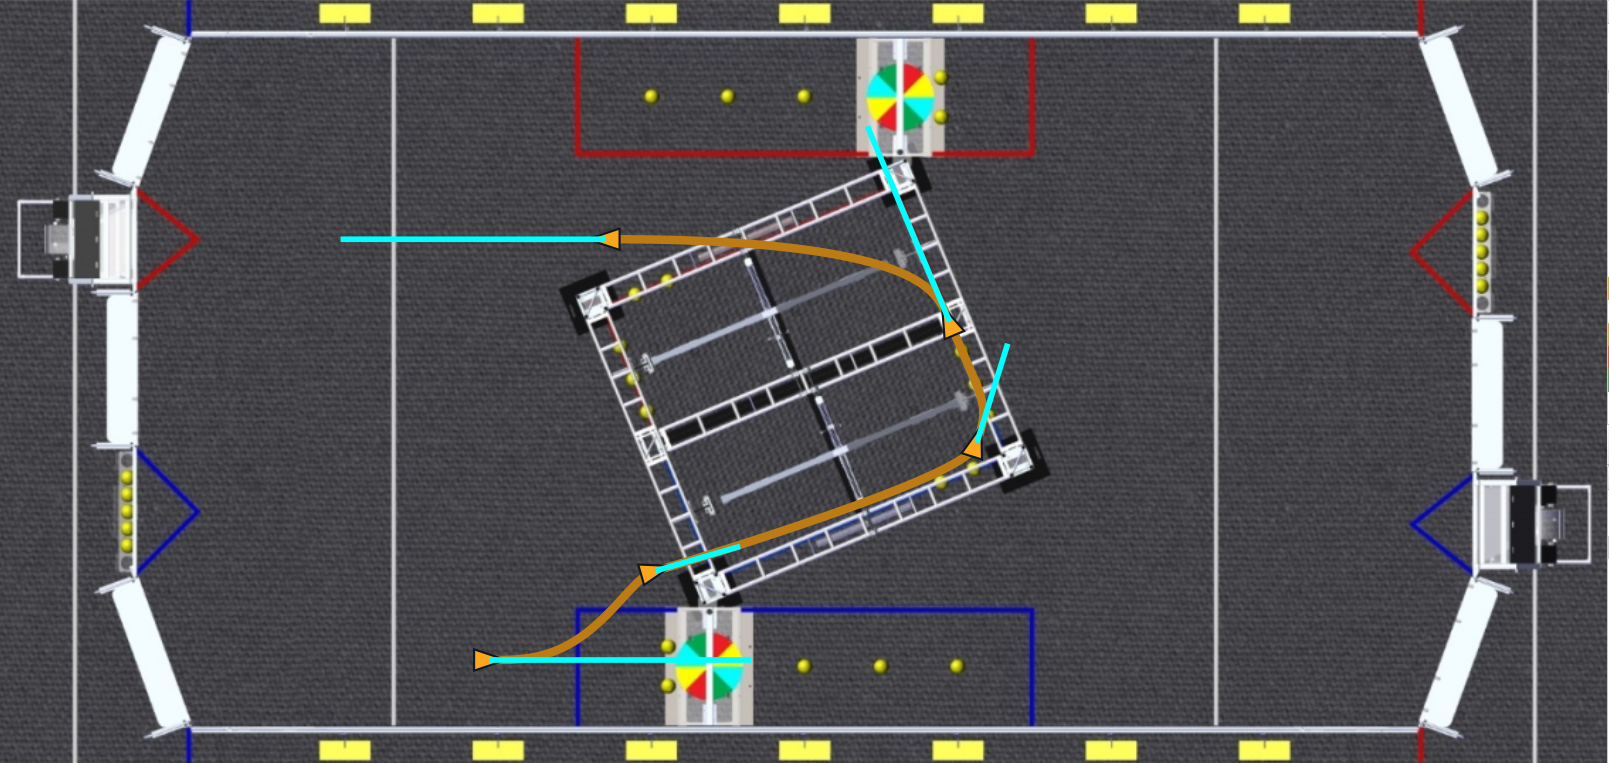
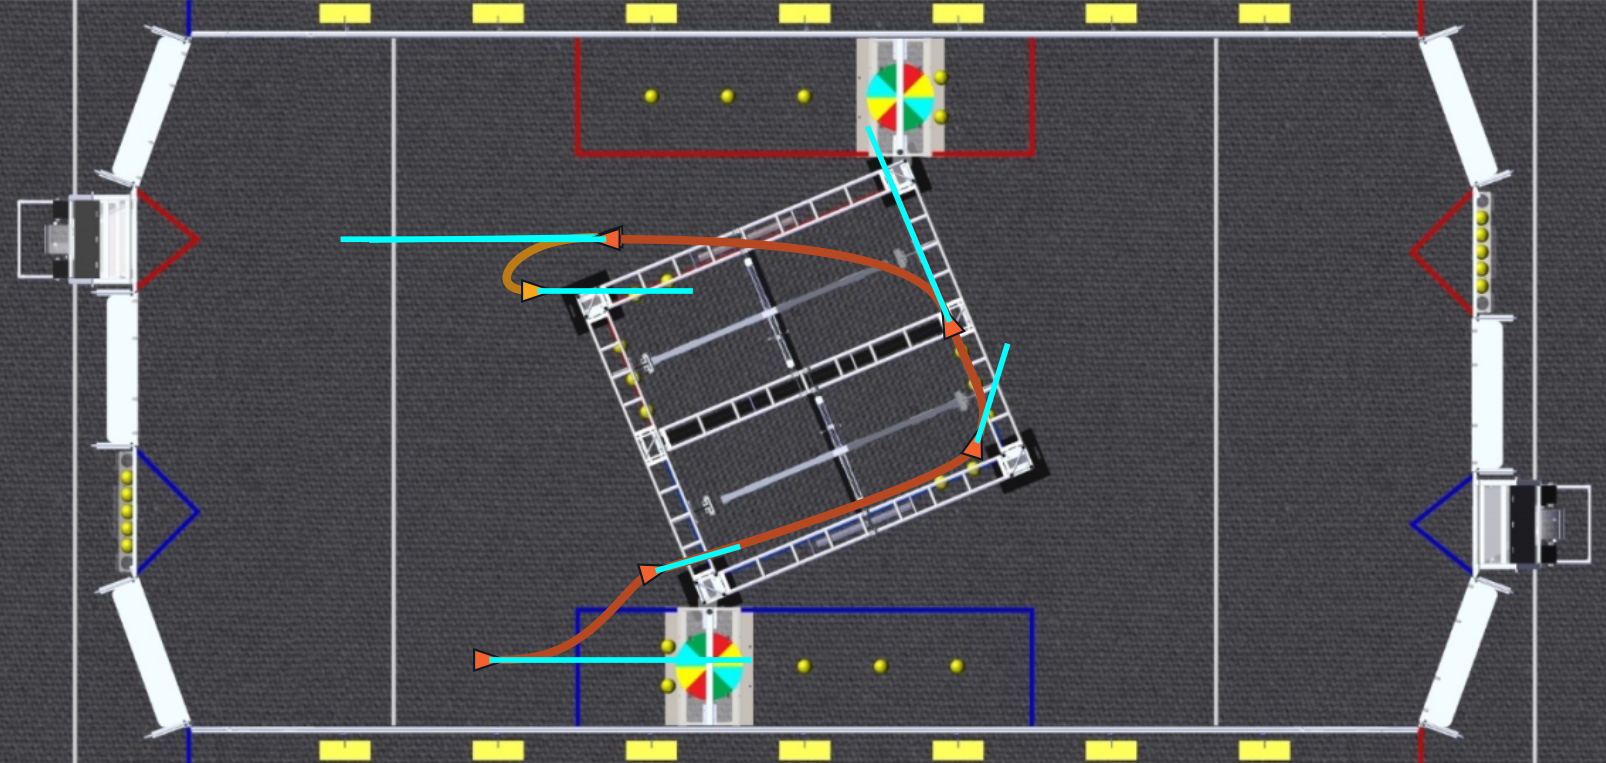
Create HalfThiefTrenchAutoCommand

diff --git a/src/main/java/frc/robot/commands/auto/thief/half/HalfThiefTrenchAutoCommand.java b/src/main/java/frc/robot/commands/auto/thief/half/HalfThiefTrenchAutoCommand.java
@@ -1,14 +1,35 @@
 package frc.robot.commands.auto.thief.half;
 
+import edu.wpi.first.wpilibj2.command.ParallelCommandGroup;
 import edu.wpi.first.wpilibj2.command.SequentialCommandGroup;
 import frc.robot.RobotContainer;
+import frc.robot.commands.collector.CollectCommand;
 import frc.robot.commands.drivetrain.TrajectoryFollowerCommand;
+import frc.robot.commands.shooter.AutoAimAndShootCommand;
+import frc.robot.commands.trenchable.UntrenchCommand;
 
 public class HalfThiefTrenchAutoCommand extends SequentialCommandGroup {
   public HalfThiefTrenchAutoCommand(RobotContainer robotContainer) {
     addCommands(
-        new TrajectoryFollowerCommand(robotContainer, HalfThiefTrenchTrajectories.FIRST_TWO),
-        new TrajectoryFollowerCommand(robotContainer, HalfThiefTrenchTrajectories.SHOOT_ONE),
-        new TrajectoryFollowerCommand(robotContainer, HalfThiefTrenchTrajectories.UNDER_RENDEZ));
+        // Collect two balls from enemy trench
+        new ParallelCommandGroup(
+            new CollectCommand(robotContainer).withTimeout(3),
+            new TrajectoryFollowerCommand(robotContainer, HalfThiefTrenchTrajectories.FIRST_TWO)
+        ),
+        // move to port and untrench
+        new ParallelCommandGroup(
+            new UntrenchCommand(robotContainer),
+            new TrajectoryFollowerCommand(robotContainer, HalfThiefTrenchTrajectories.SHOOT_ONE)
+        ),
+        // shoot 5 balls
+        new AutoAimAndShootCommand(robotContainer),
+        // Collect 5 balls
+        new ParallelCommandGroup(
+            new CollectCommand(robotContainer).withTimeout(8),
+            new TrajectoryFollowerCommand(robotContainer, HalfThiefTrenchTrajectories.UNDER_RENDEZ)
+        ),
+        // Shoot 5 balls
+        new AutoAimAndShootCommand(robotContainer)
+    );
   }
 }
